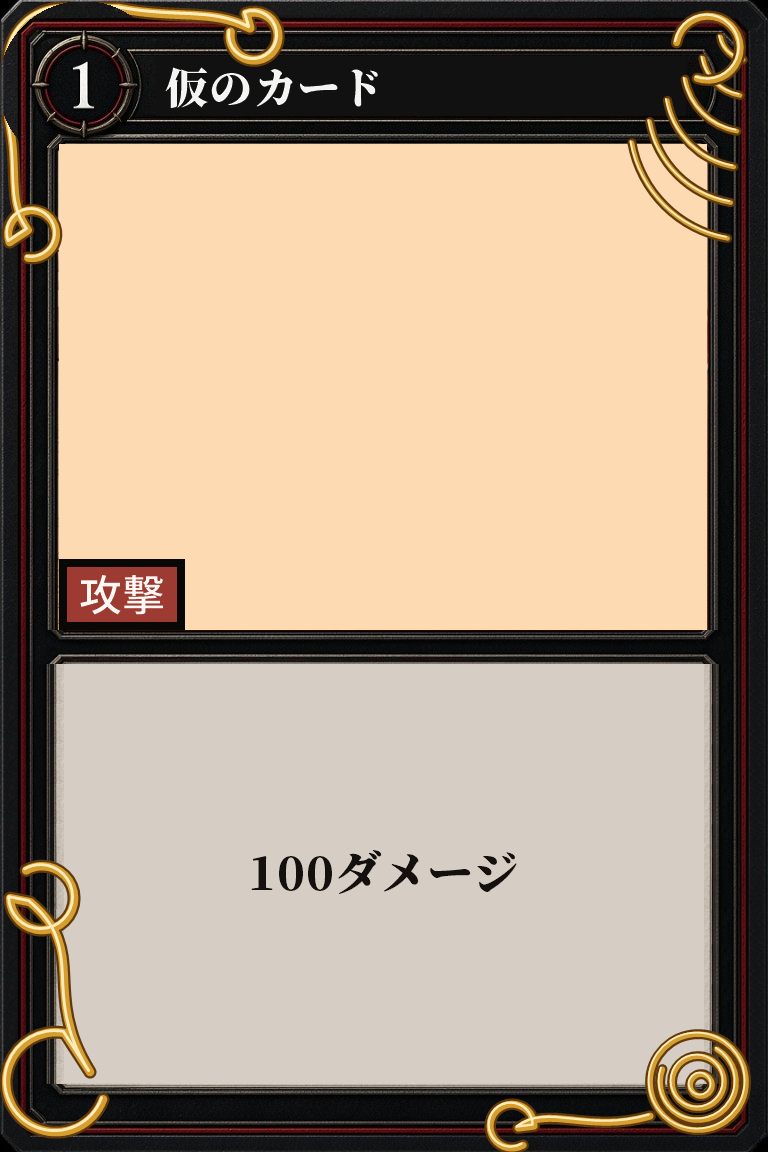
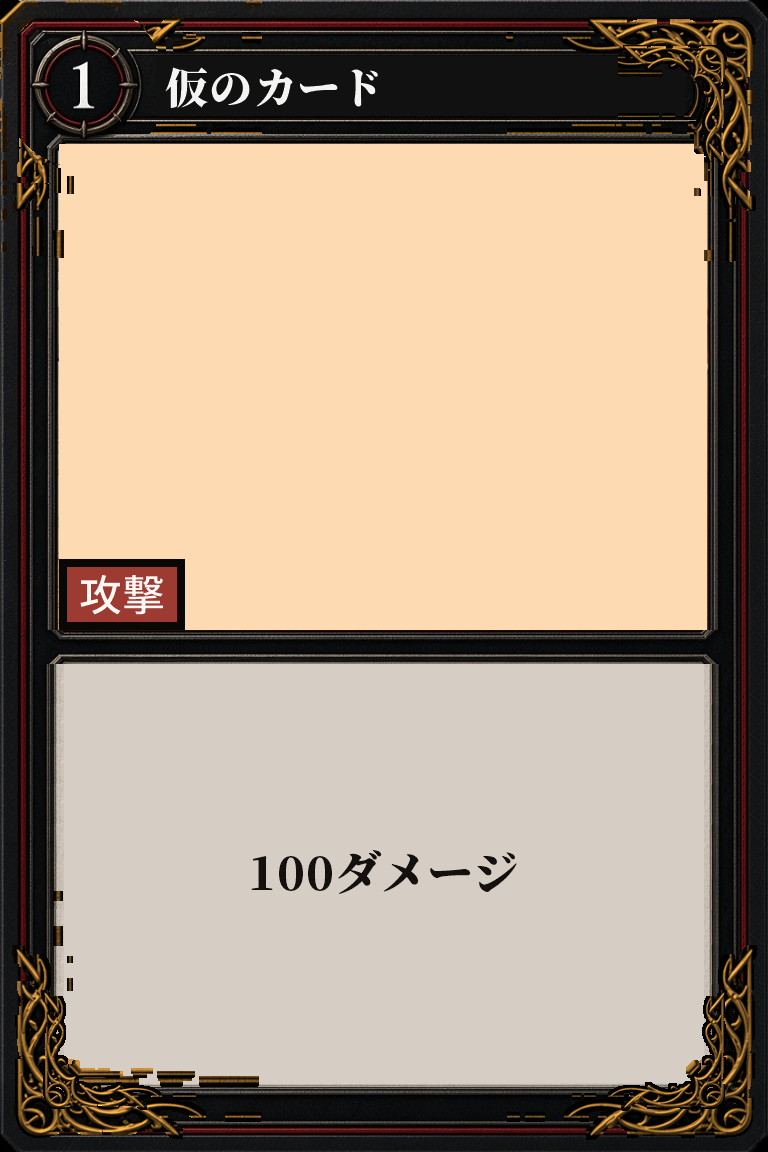
見せた唐草を金にした3案に作り直す

diff --git a/index.html b/index.html
@@ -8709,9 +8709,9 @@
     function artZoomSide(name) {
       if (!name) return "";
       const masterZoom = {
-        "card-gold-pattern-1": { label: "金の案1", src: "card-gold-pattern-1.png?v=1", alt: "金の案1。四隅の唐草はそれぞれ違う" },
-        "card-gold-pattern-2": { label: "金の案2", src: "card-gold-pattern-2.png?v=1", alt: "金の案2。四隅の唐草はそれぞれ違い、案1より密" },
-        "card-gold-pattern-3": { label: "金の案3", src: "card-gold-pattern-3.png?v=1", alt: "金の案3。四隅の唐草はそれぞれ違い、大ぶり" },
+        "card-gold-pattern-1": { label: "金の案1", src: "card-gold-pattern-1.png?v=2", alt: "金の案1。見せた唐草を金にした。上と下で形が違う" },
+        "card-gold-pattern-2": { label: "金の案2", src: "card-gold-pattern-2.png?v=2", alt: "金の案2。下の唐草を四隅に回した" },
+        "card-gold-pattern-3": { label: "金の案3", src: "card-gold-pattern-3.png?v=2", alt: "金の案3。案1に、もう一段小さい唐草を重ねた" },
         "card-style-master": { label: "攻撃（赤）★", src: "card-style-master.png?v=6", alt: "攻撃（赤）★。装飾なし。仮のカード" },
         "card-style-master-silver": { label: "攻撃（赤）★★", src: "card-style-master-silver.png?v=7", alt: "攻撃（赤）★★。銀の唐草。仮のカード" },
         "card-style-master-gold": { label: "攻撃（赤）★★★", src: "card-style-master-gold.png?v=7", alt: "攻撃（赤）★★★。金の唐草。仮のカード" },
@@ -9207,9 +9207,9 @@
 
     // 設定資料用：色ごとの正本。★は装飾なし。★★は銀の唐草。★★★は同じ唐草を金。押すと右半分に拡大
     const BLANK_FRAMES = [
-      { kind: "attack", label: "金の案1", zoom: "card-gold-pattern-1", src: "card-gold-pattern-1.png?v=1", alt: "金の案1。四隅の唐草はそれぞれ違う" },
-      { kind: "attack", label: "金の案2", zoom: "card-gold-pattern-2", src: "card-gold-pattern-2.png?v=1", alt: "金の案2。四隅の唐草はそれぞれ違い、案1より密" },
-      { kind: "attack", label: "金の案3", zoom: "card-gold-pattern-3", src: "card-gold-pattern-3.png?v=1", alt: "金の案3。四隅の唐草はそれぞれ違い、大ぶり" },
+      { kind: "attack", label: "金の案1", zoom: "card-gold-pattern-1", src: "card-gold-pattern-1.png?v=2", alt: "金の案1。見せた唐草を金にした。上と下で形が違う" },
+      { kind: "attack", label: "金の案2", zoom: "card-gold-pattern-2", src: "card-gold-pattern-2.png?v=2", alt: "金の案2。下の唐草を四隅に回した" },
+      { kind: "attack", label: "金の案3", zoom: "card-gold-pattern-3", src: "card-gold-pattern-3.png?v=2", alt: "金の案3。案1に、もう一段小さい唐草を重ねた" },
       { kind: "attack", label: "攻撃（赤）★", zoom: "card-style-master", src: "card-style-master.png?v=6", alt: "攻撃（赤）★。装飾なし。仮のカード" },
       { kind: "attack", label: "攻撃（赤）★★", zoom: "card-style-master-silver", src: "card-style-master-silver.png?v=7", alt: "攻撃（赤）★★。銀の唐草。仮のカード" },
       { kind: "attack", label: "攻撃（赤）★★★", zoom: "card-style-master-gold", src: "card-style-master-gold.png?v=7", alt: "攻撃（赤）★★★。金の唐草。仮のカード" },
